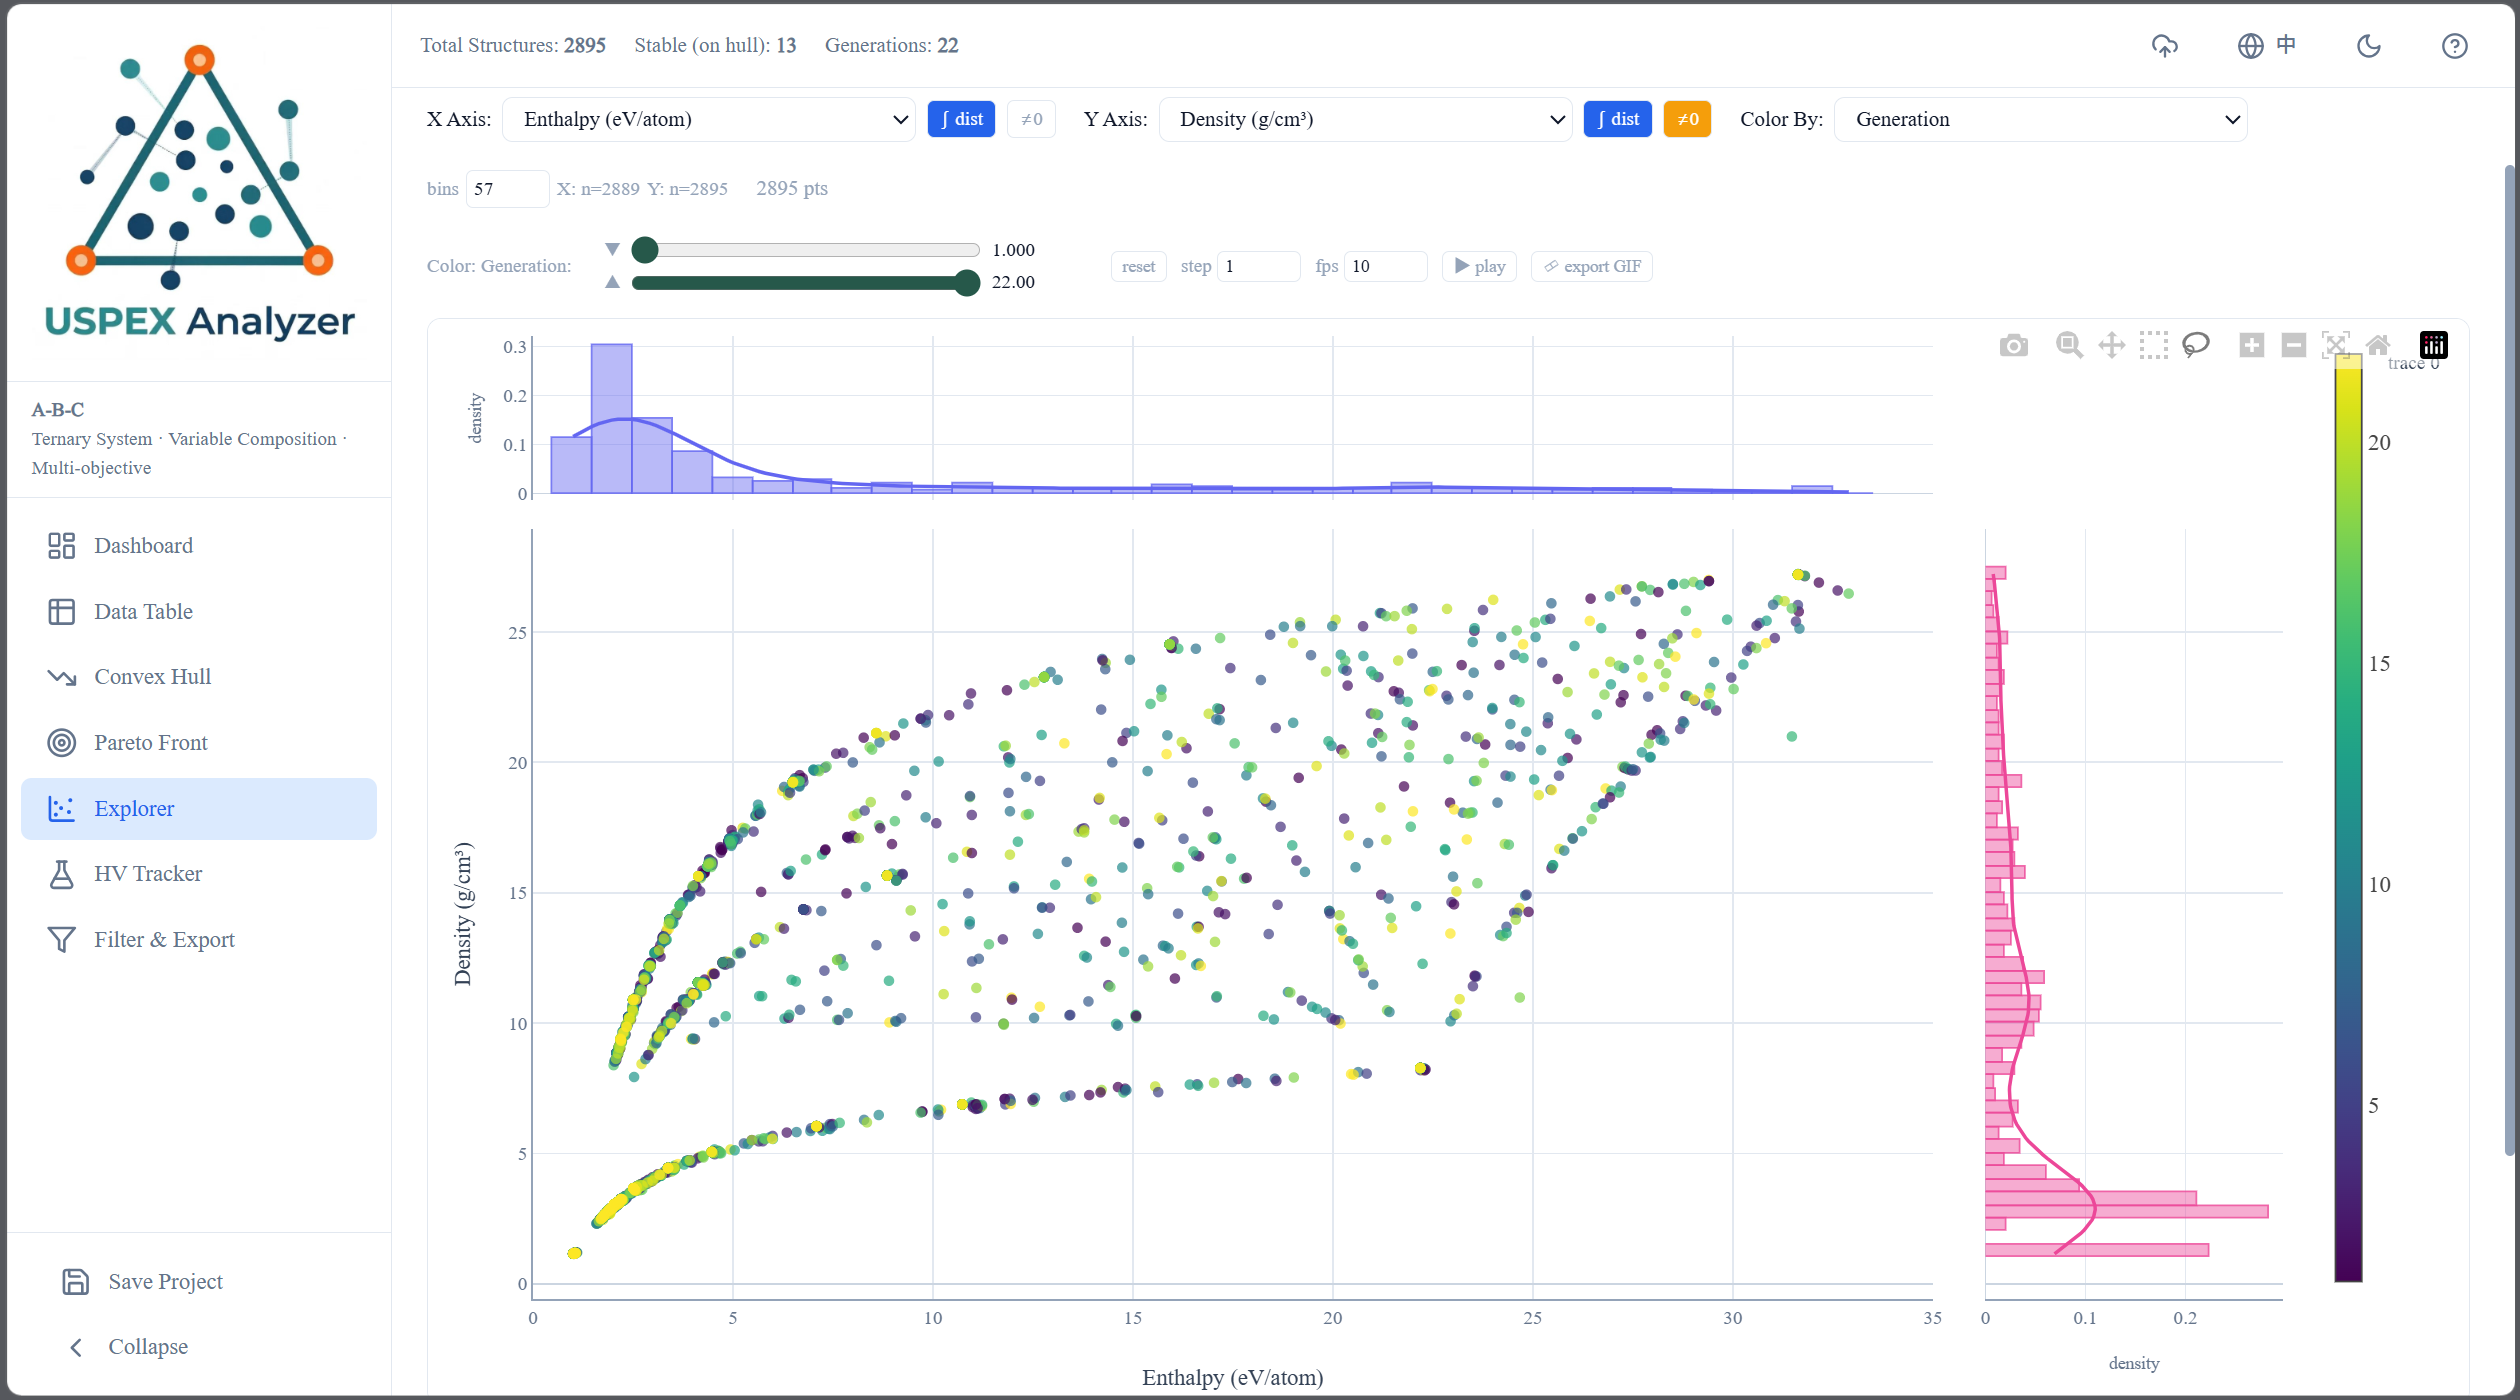
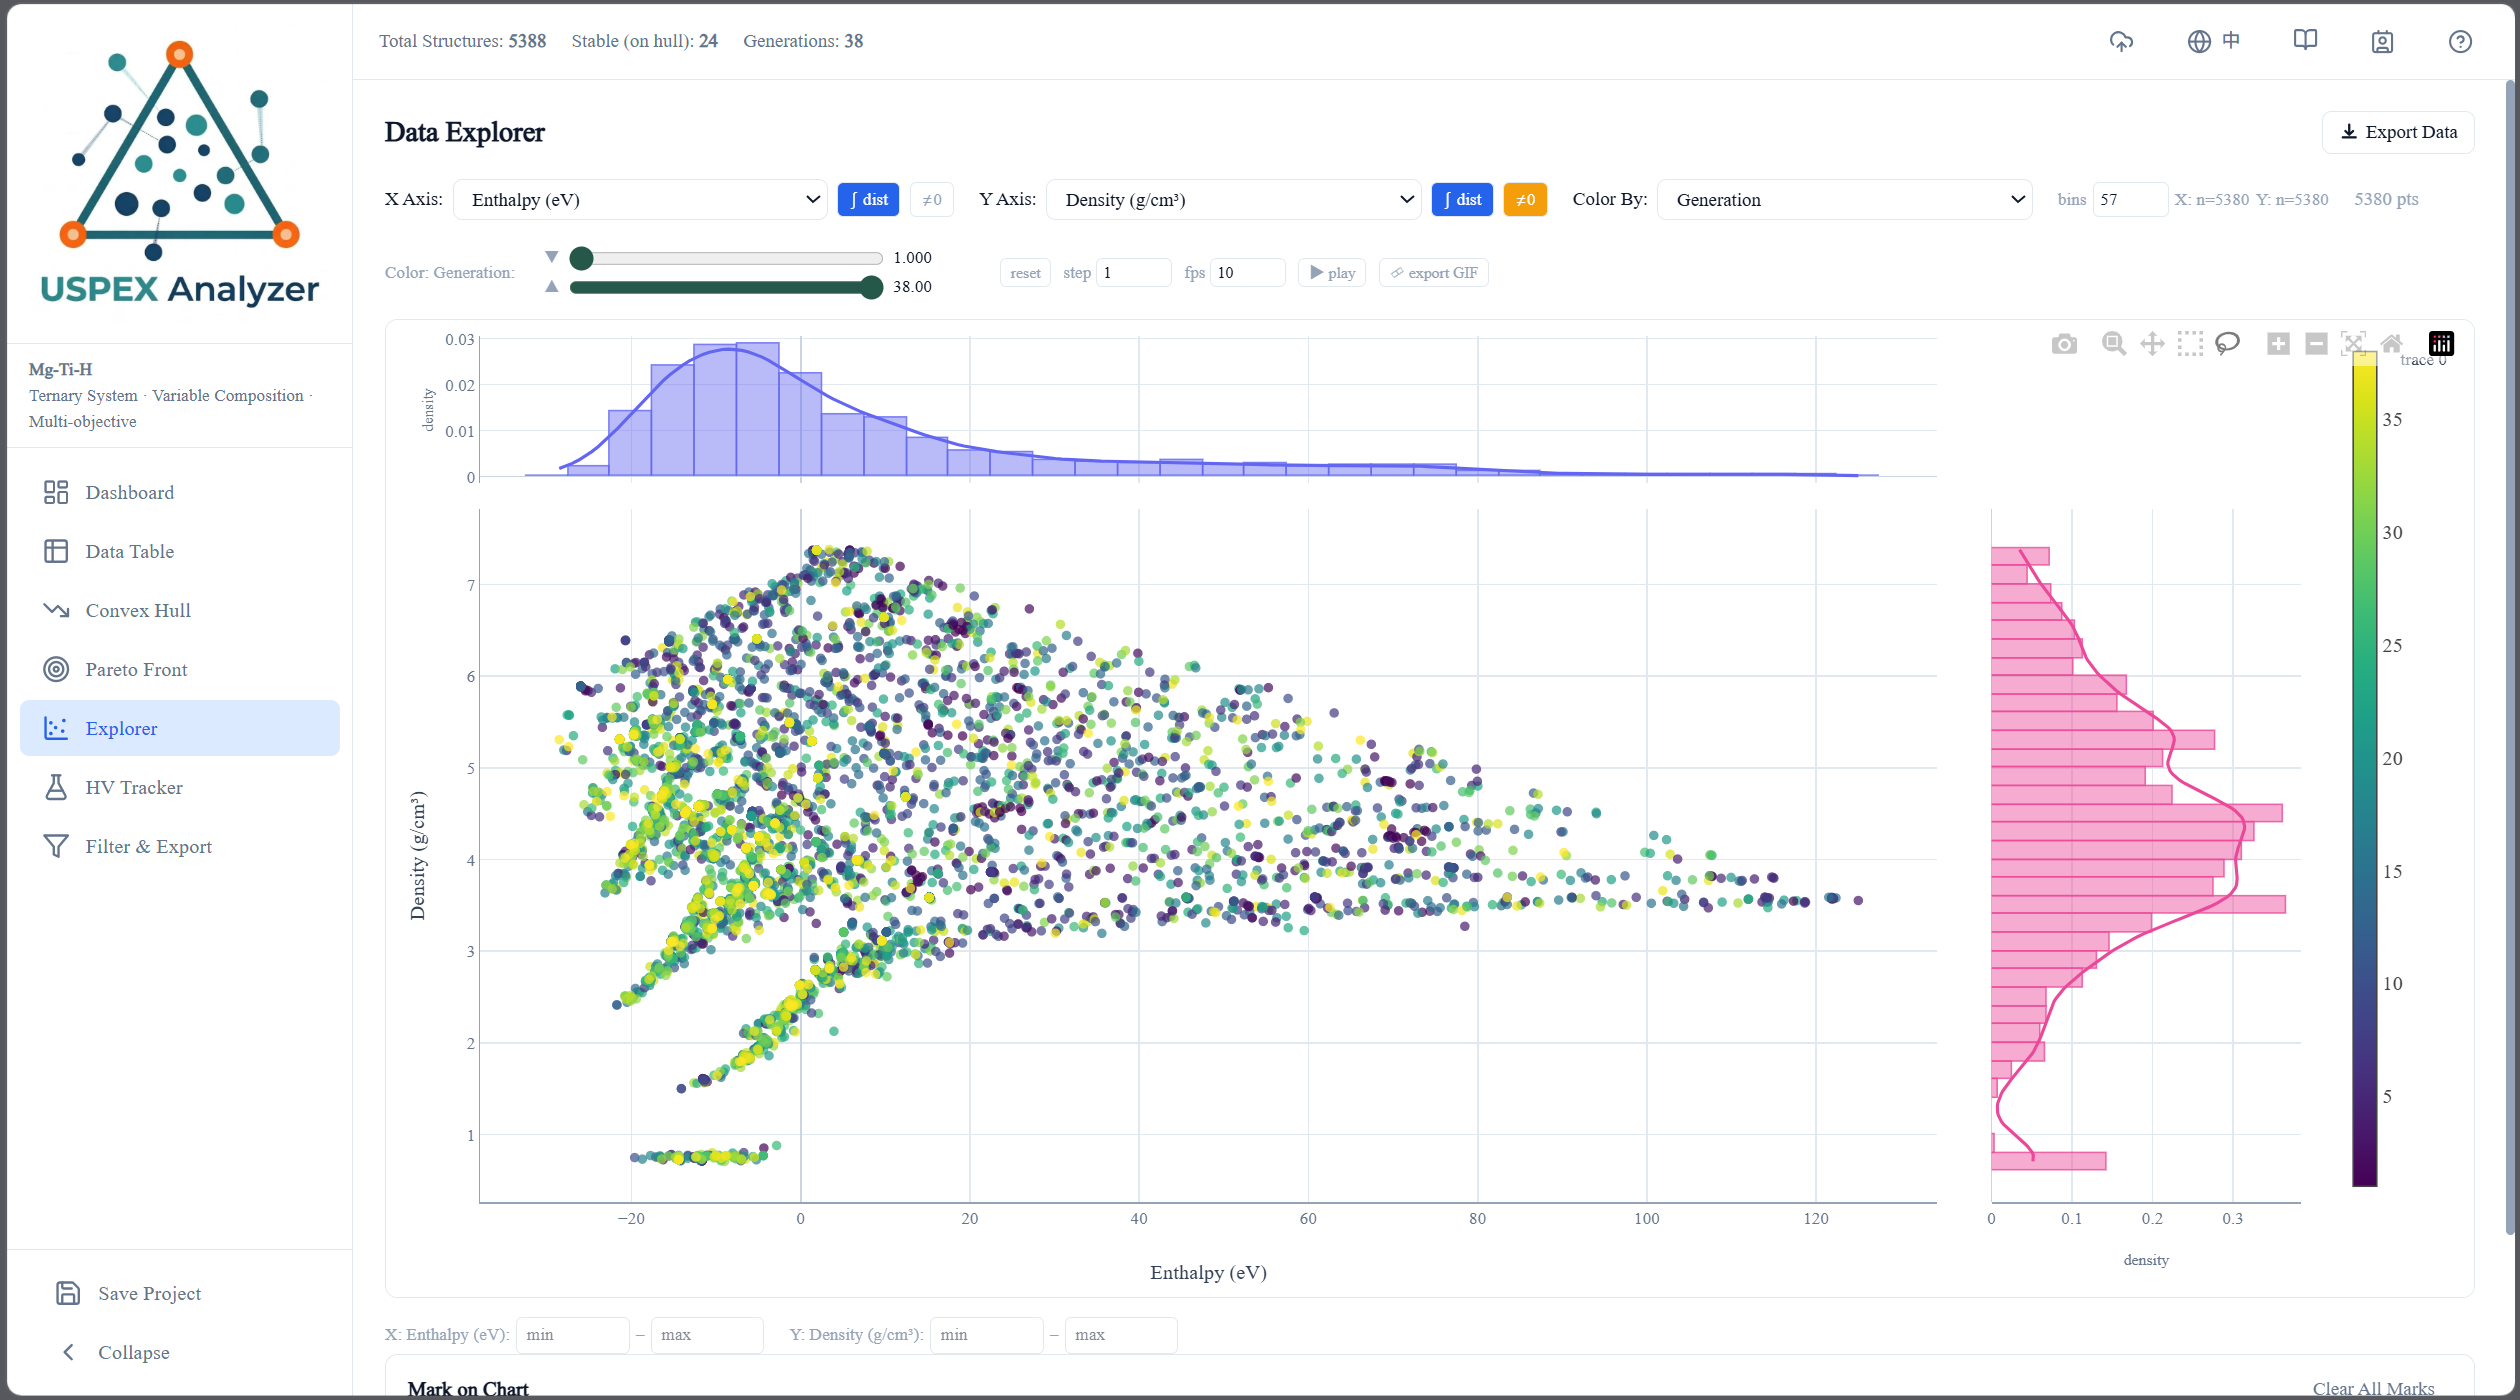
update

diff --git a/i18n.js b/i18n.js
@@ -15,10 +15,10 @@ const translations = {
     "work.project2.desc": "A browser-based interactive analysis platform for USPEX crystal structure prediction results. Features include convex hull visualization, Pareto front analysis, scatter plot explorer with GIF export, genealogy tracking, and flexible data filtering and export.",
     "work.project2.link": "Visit Site",
     "about.title": "About Me",
-    "about.text": "I am a M.S. candidate in Materials Physics and Chemistry at Guangdong University of Technology. My research focuses on crystal structure prediction, machine learning-assisted materials design, and first-principles calculations.",
+    "about.text": "I am a M.S. candidate in Materials Physics and Chemistry at Guangdong University of Technology, expecting to graduate in June 2027. My research focuses on crystal structure prediction, machine learning-assisted materials design, and first-principles calculations. I am seeking a PhD position starting in Fall 2027, with research interests in materials genome, machine learning interatomic potentials, and molecular dynamics.",
     "about.resume": "My Resume",
     "contact.title": "Get in Touch",
-    "contact.text": "If you are interested in my research, have questions about my projects, or would like to discuss potential collaborations, feel free to reach out.",
+    "contact.text": "I am seeking a PhD position starting Fall 2027. If you are interested in my research, have questions about my projects, or would like to discuss potential opportunities, feel free to reach out.",
     "contact.copy": "Copy"
   },
   zh: {
@@ -37,10 +37,10 @@ const translations = {
     "work.project2.desc": "基于浏览器的 USPEX 晶体结构预测后处理平台。支持凸包可视化、Pareto 前沿分析、散点图探索与 GIF 导出、族谱追踪，以及灵活的数据筛选与导出功能。",
     "work.project2.link": "访问网站",
     "about.title": "关于我",
-    "about.text": "广东工业大学材料物理与化学专业硕士研究生在读。研究方向为晶体结构预测、机器学习辅助材料设计与第一性原理计算。",
+    "about.text": "广东工业大学材料物理与化学专业硕士研究生在读，预计2027年6月毕业。研究方向为晶体结构预测、机器学习辅助材料设计与第一性原理计算。计划2027年秋季开始攻读博士，对材料基因、机器学习势函数和分子动力学方向特别感兴趣。",
     "about.resume": "我的简历",
     "contact.title": "联系方式",
-    "contact.text": "如果您对我的研究感兴趣、对项目有疑问，或希望探讨合作，欢迎随时联系我。",
+    "contact.text": "我计划2027年秋季开始攻读博士。如果您对我的研究感兴趣、对项目有疑问，或希望探讨合作机会，欢迎随时联系我。",
     "contact.copy": "复制"
   }
 };